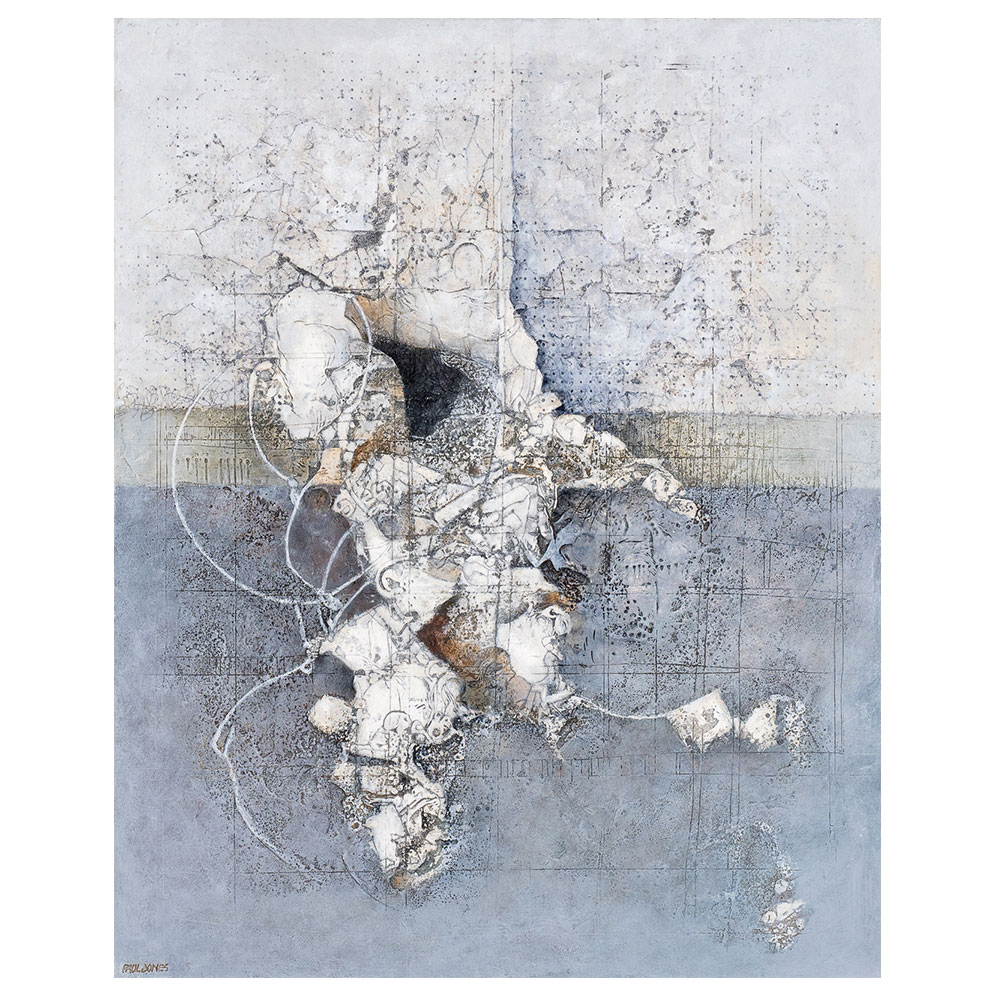
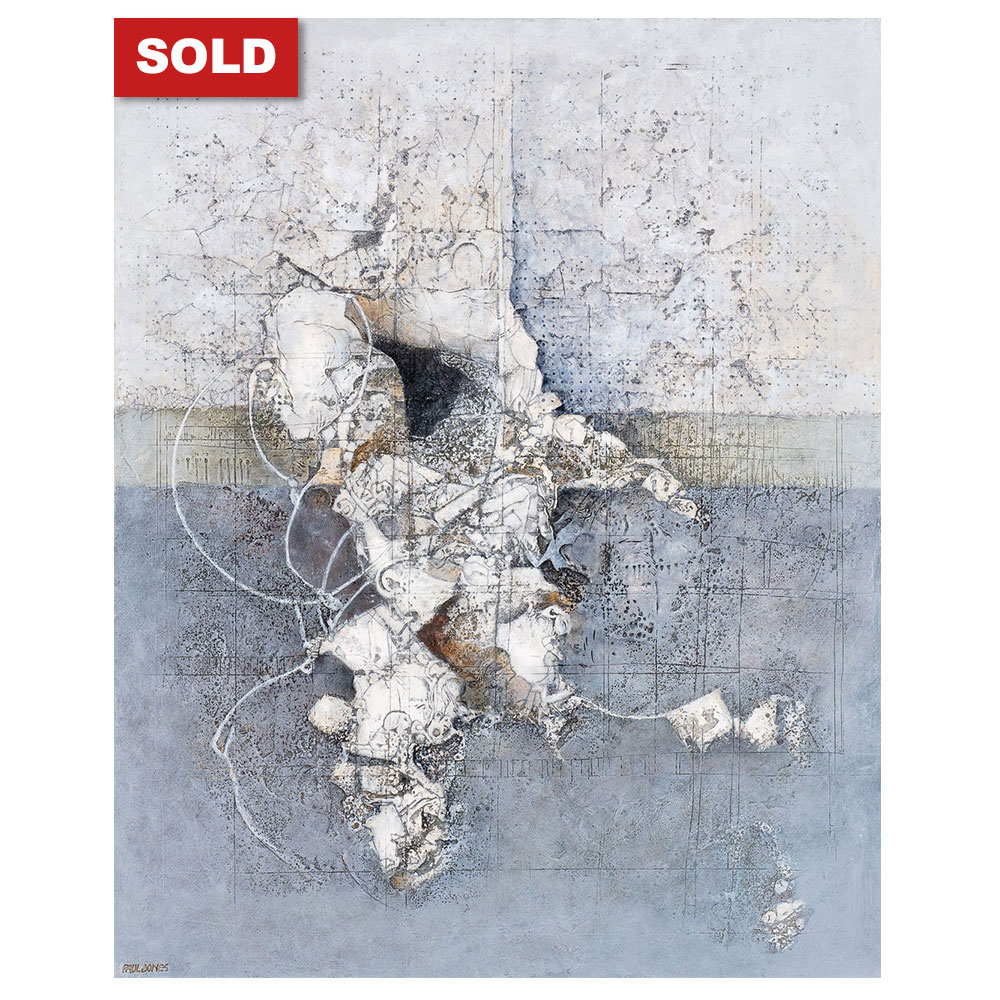
PAINTING SOLD

Changed region(s): [[0.093, 0.0, 0.31, 0.124]]

diff --git a/public/index.html b/public/index.html
@@ -1,6 +1,20 @@
 <!DOCTYPE html>
 <html lang="en">
   <head>
+    <!-- Google tag (gtag.js) -->
+    <script
+      async
+      src="https://www.googletagmanager.com/gtag/js?id=G-VSK8XZ7NGB"
+    ></script>
+    <script>
+      window.dataLayer = window.dataLayer || [];
+      function gtag() {
+        dataLayer.push(arguments);
+      }
+      gtag("js", new Date());
+
+      gtag("config", "G-VSK8XZ7NGB");
+    </script>
     <meta charset="utf-8" />
     <meta name="viewport" content="width=device-width, initial-scale=1" />
     <meta name="theme-color" content="#000000" />
@@ -24,6 +38,7 @@
     -->
     <title>Paul Jones Artist</title>
   </head>
+
   <body>
     <noscript>You need to enable JavaScript to run this app.</noscript>
     <div id="root"></div>

diff --git a/src/LandWork.tsx b/src/LandWork.tsx
@@ -46,7 +46,7 @@ const Home = () => {
           <Button backgroundColor={"#BF5731"}>
             <a
               href={
-                "mailto:pj@pauljonesartist.co.uk?subject=Land Work 2024&body=[Purchase enquiry via website]"
+                "mailto:pauljonesglendaleart@hotmail.co.uk?subject=Land Work 2024&body=[Purchase enquiry via website]"
               }
               style={{ color: "white", textDecoration: "none" }}
               target="_blank"

diff --git a/src/Contacts.tsx b/src/Contacts.tsx
@@ -36,8 +36,8 @@ const Contacts = () => (
           <ul>
             Paul Jones
             <StyledLi>
-              <a href="mailto:pj@pauljonesartist.co.uk">
-                pj@pauljonesartist.co.uk
+              <a href="mailto:pauljonesglendaleart@hotmail.co.uk">
+                pauljonesglendaleart@hotmail.co.uk
               </a>
             </StyledLi>
           </ul>
